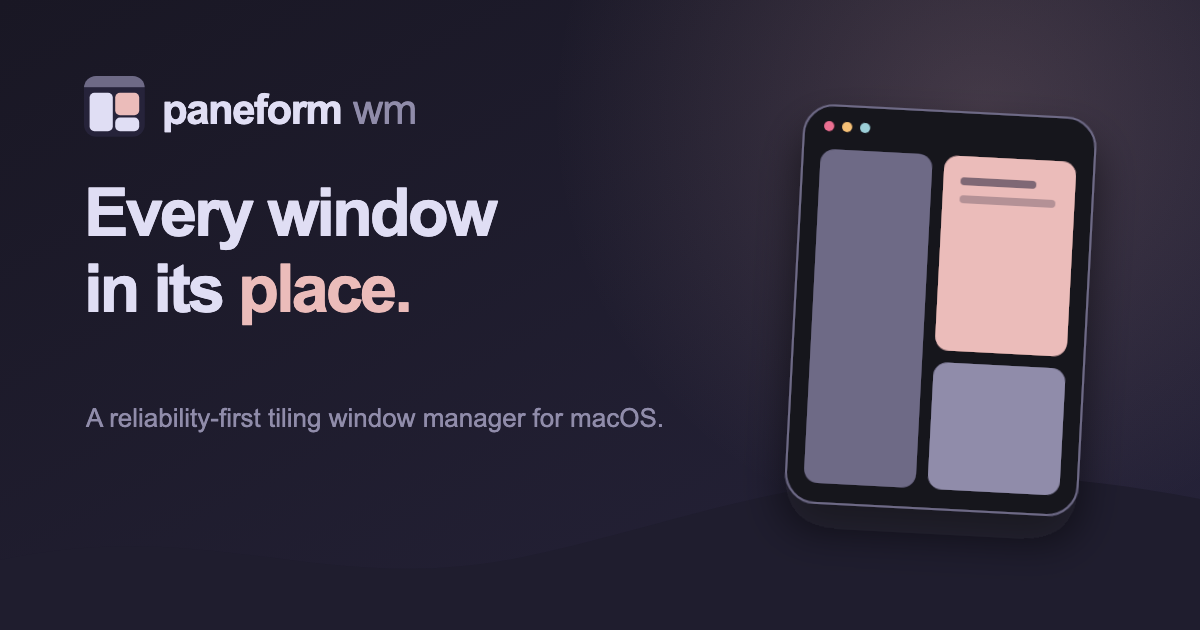
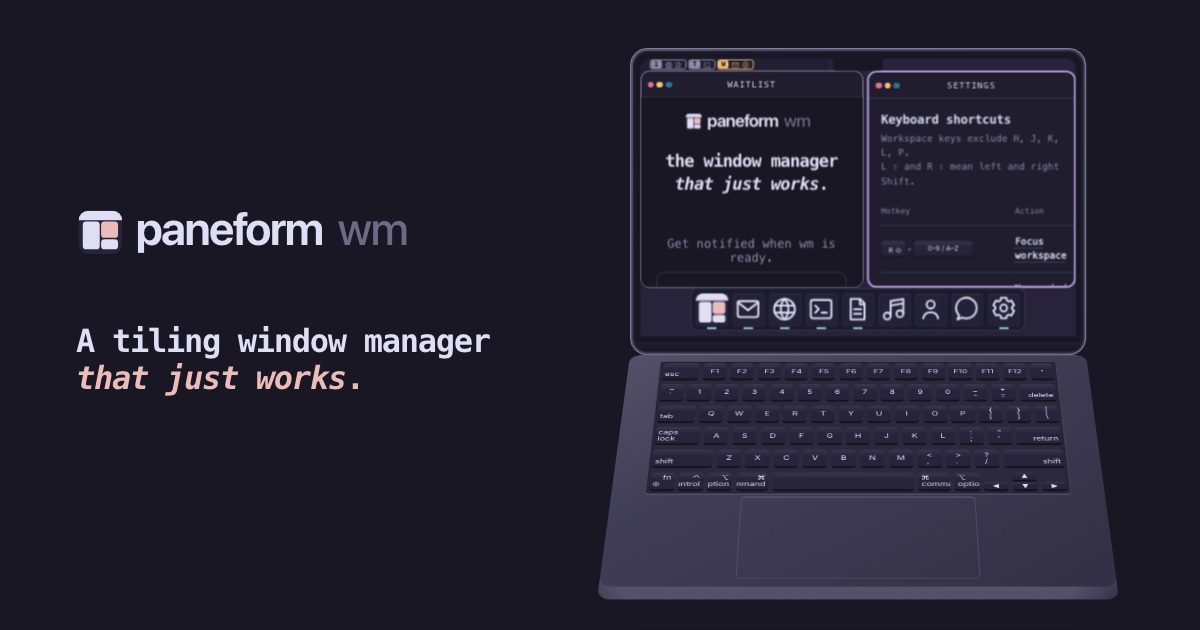
feat(site): render approved social card from the landing UI

diff --git a/apps/site/scripts/render-wm-corners.ts b/apps/site/scripts/render-wm-corners.ts
@@ -10,6 +10,8 @@ const url = process.env.WM_SCREENSHOT_URL ?? "http://127.0.0.1:4192/wm/";
 const outputDir = resolve(process.env.WM_SCREENSHOT_DIR ?? "/tmp/wm-corners");
 const chromePath =
   process.env.CHROME_PATH ?? "/Applications/Google Chrome.app/Contents/MacOS/Google Chrome";
+const socialMode = process.argv.includes("--social");
+const socialOutput = resolve("static/social/paneform-wm.png");
 
 type Target = { type: string; webSocketDebuggerUrl?: string };
 type CdpMessage = { id?: number; result?: unknown; error?: { message?: string } };
@@ -100,6 +102,7 @@ async function findTarget(endpoint: string): Promise<Target & { webSocketDebugge
 async function evaluate<T>(client: CdpClient, expression: string): Promise<T> {
   const response = await client.command<{ result?: { value?: T } }>("Runtime.evaluate", {
     expression,
+    awaitPromise: true,
     returnByValue: true,
   });
   if (!response.result || !("value" in response.result))
@@ -164,6 +167,46 @@ async function renderViewport(client: CdpClient, label: string, viewport: Viewpo
   await screenshot(client, resolve(outputDir, `${label}-right.png`), cornerClip("right", geometry));
 }
 
+async function renderSocial(client: CdpClient): Promise<void> {
+  await client.command("Emulation.setDeviceMetricsOverride", {
+    width: 1200,
+    height: 630,
+    deviceScaleFactor: 1,
+    mobile: false,
+  });
+  await client.command("Emulation.setEmulatedMedia", {
+    media: "screen",
+    features: [
+      { name: "prefers-color-scheme", value: "dark" },
+      { name: "prefers-reduced-motion", value: "reduce" },
+    ],
+  });
+  await client.command("Page.navigate", { url: new URL("og/", url).href });
+  await evaluate(
+    client,
+    `(async () => {
+      for (let attempt = 0; attempt < 240; attempt += 1) {
+        const complete = [...document.querySelectorAll('[role="status"]')]
+          .some((element) => element.textContent?.includes('Demo complete'));
+        const frames = [...document.querySelectorAll('iframe')];
+        const framesReady = frames.every((frame) => {
+          try { return frame.contentDocument?.readyState === 'complete'; }
+          catch { return false; }
+        });
+        if (complete && framesReady && !document.querySelector('.paneform-splash')) {
+          await document.fonts.ready;
+          await Promise.all(frames.map((frame) => frame.contentDocument?.fonts.ready));
+          await new Promise((resolve) => requestAnimationFrame(() => requestAnimationFrame(resolve)));
+          return true;
+        }
+        await new Promise((resolve) => setTimeout(resolve, 50));
+      }
+      throw new Error('Timed out waiting for the completed OG scene');
+    })()`,
+  );
+  await screenshot(client, socialOutput);
+}
+
 async function render(): Promise<void> {
   await mkdir(outputDir, { recursive: true });
   const port = await freePort();
@@ -186,9 +229,14 @@ async function render(): Promise<void> {
   const client = new CdpClient(target.webSocketDebuggerUrl);
   try {
     await client.command("Page.enable");
-    await renderViewport(client, "desktop", { width: 1920, height: 1080 });
-    await renderViewport(client, "mobile", { width: 390, height: 844 });
-    process.stdout.write(`Wrote WM corner renders to ${outputDir}\n`);
+    if (socialMode) {
+      await renderSocial(client);
+      process.stdout.write(`Wrote social image to ${socialOutput}\n`);
+    } else {
+      await renderViewport(client, "desktop", { width: 1920, height: 1080 });
+      await renderViewport(client, "mobile", { width: 390, height: 844 });
+      process.stdout.write(`Wrote WM corner renders to ${outputDir}\n`);
+    }
   } finally {
     client.close();
     chrome.kill("SIGTERM");

diff --git a/apps/site/src/routes/wm/og/+page.svelte b/apps/site/src/routes/wm/og/+page.svelte
@@ -1,0 +1,111 @@
+<script lang="ts">
+  import PaneformWordmark from "$lib/hero/PaneformWordmark.svelte";
+  import WmHero from "$lib/hero/WmHero.svelte";
+</script>
+
+<main class="og-page">
+  <section class="og-copy" aria-labelledby="og-heading">
+    <div class="og-wordmark"><PaneformWordmark clipId="paneform-og-clip" /></div>
+    <h1 id="og-heading">
+      <span>A tiling window manager</span>
+      <span class="tagline"><em>that just works</em>.</span>
+    </h1>
+  </section>
+  <section class="og-product" aria-label="Paneform WM running on a MacBook">
+    <WmHero />
+  </section>
+</main>
+
+<svelte:head>
+  <title>Paneform WM social image</title>
+  <meta name="robots" content="noindex, nofollow" />
+  <meta name="theme-color" content="#191724" />
+</svelte:head>
+
+<style>
+  :global(html:has(.og-page)),
+  :global(body:has(.og-page)) {
+    width: 1200px;
+    height: 630px;
+    overflow: hidden;
+  }
+
+  .og-page {
+    display: grid;
+    grid-template-columns: 43% 57%;
+    width: 1200px;
+    height: 630px;
+    overflow: hidden;
+    background: var(--color-page-background);
+    color: var(--color-page-foreground);
+  }
+
+  .og-copy {
+    z-index: 2;
+    display: flex;
+    flex-direction: column;
+    justify-content: center;
+    padding: 0 0 1.5rem 4.75rem;
+  }
+
+  .og-wordmark {
+    width: 21.875rem;
+    margin-block-end: 4.125rem;
+  }
+
+  h1 {
+    display: flex;
+    flex-direction: column;
+    margin: 0;
+    font-size: 2rem;
+    font-weight: var(--type-weight-medium);
+    line-height: 1.17;
+    letter-spacing: -0.04em;
+  }
+
+  h1 span {
+    white-space: nowrap;
+  }
+
+  .tagline {
+    color: var(--rp-rose);
+    font-weight: var(--type-weight-strong);
+  }
+
+  .og-product {
+    position: relative;
+    min-width: 0;
+    overflow: hidden;
+  }
+
+  .og-product :global(.wm-landing) {
+    display: block;
+    width: 100%;
+    height: 630px;
+  }
+
+  .og-product :global(.hero) {
+    display: block;
+    height: 630px;
+  }
+
+  .og-product :global(.hero-header),
+  .og-product :global(.stage-controls),
+  .og-product :global(.demo-control) {
+    display: none;
+  }
+
+  .og-product :global(.stage-shell),
+  .og-product :global(.stage) {
+    width: 100%;
+    height: 630px;
+    padding: 0;
+  }
+
+  .og-product :global(.stage .scene) {
+    width: 39rem;
+    max-width: none;
+    --laptop-solo-width: 78%;
+    --laptop-solo-top: 40%;
+  }
+</style>

diff --git a/apps/site/scripts/check-release.ts b/apps/site/scripts/check-release.ts
@@ -7,7 +7,7 @@ import { resolve } from "node:path";
 const host = "127.0.0.1";
 const outputDir = resolve(".vercel/output");
 const staticDir = resolve(outputDir, "static");
-const imageUrl = "https://paneform.com/social/paneform-wm.png";
+const imageUrl = "https://paneform.com/social/paneform-wm.png?v=2";
 const pageMetadata = [
   {
     path: "/wm/",
@@ -88,6 +88,7 @@ async function assertArtifacts(): Promise<void> {
     assertFile(resolve(staticDir, "social/paneform-wm.png")),
   ]);
   await assert.rejects(stat(resolve(staticDir, "wm/play")), { code: "ENOENT" });
+  await assert.rejects(stat(resolve(staticDir, "wm/og")), { code: "ENOENT" });
 
   const png = await readFile(resolve(staticDir, "social/paneform-wm.png"));
   assert.ok(
@@ -136,6 +137,15 @@ async function assertStatus(origin: string, path: string, status: number): Promi
 }
 
 async function assertPublicRoutes(origin: string): Promise<void> {
+  // The image source is development-only, even in an opted-in playground preview.
+  for (const path of [
+    "/wm/og",
+    "/wm/og/",
+    "/wm/og/__data.json?x-sveltekit-invalidated=000",
+    "/wm/%6fg/",
+  ]) {
+    await assertStatus(origin, path, 404);
+  }
   const root = await assertStatus(origin, "/", 200);
   assertRedirectDocument(await root.text());
   for (const metadata of pageMetadata) {

diff --git a/apps/site/src/hooks.server.ts b/apps/site/src/hooks.server.ts
@@ -1,10 +1,13 @@
 import { env } from "$env/dynamic/private";
+import { dev } from "$app/environment";
 import { isPlaygroundPath, requirePlayground } from "$lib/server/playground.js";
-import type { Handle } from "@sveltejs/kit";
+import { error, type Handle } from "@sveltejs/kit";
 
 export const handle: Handle = async ({ event, resolve }) => {
   // Data requests can skip layout loads, so enforce the boundary before routing.
-  const playground = isPlaygroundPath(event.route.id ?? event.url.pathname);
+  const path = event.route.id ?? event.url.pathname;
+  if (!dev && (path === "/wm/og" || path.startsWith("/wm/og/"))) error(404, "Not found");
+  const playground = isPlaygroundPath(path);
   if (!playground) return resolve(event);
   requirePlayground(env);
   const resolved = await resolve(event);

diff --git a/apps/site/src/lib/hero/SocialMetadata.svelte b/apps/site/src/lib/hero/SocialMetadata.svelte
@@ -5,8 +5,8 @@
     canonical,
   }: { title: string; description: string; canonical: string } = $props();
 
-  const image = "https://paneform.com/social/paneform-wm.png";
-  const imageAlt = "Paneform WM, every window in its place, illustrated with three tiled window panes.";
+  const image = "https://paneform.com/social/paneform-wm.png?v=2";
+  const imageAlt = "Paneform WM: A tiling window manager that just works, shown beside the app running on a MacBook.";
 </script>
 
 <svelte:head>

diff --git a/apps/site/test/social-metadata.spec.ts b/apps/site/test/social-metadata.spec.ts
@@ -25,7 +25,7 @@ describe("social metadata", () => {
     ]) {
       expect(component).toContain(`"${field}"`);
     }
-    expect(component).toContain("https://paneform.com/social/paneform-wm.png");
+    expect(component).toContain("https://paneform.com/social/paneform-wm.png?v=2");
     expect(component).toContain("summary_large_image");
   });
 

diff --git a/apps/site/src/routes/wm/og/+page.server.ts b/apps/site/src/routes/wm/og/+page.server.ts
@@ -1,0 +1,9 @@
+import { dev } from "$app/environment";
+import { error } from "@sveltejs/kit";
+
+export const prerender = false;
+export const trailingSlash = "ignore";
+
+export function load() {
+  if (!dev) error(404, "Not found");
+}

diff --git a/apps/site/README.md b/apps/site/README.md
@@ -49,6 +49,14 @@ the Vercel adapter emits the actual HTTP 308 redirect.
 ## Sharing
 
 The landing and waitlist share `/social/paneform-wm.png`, a 1200x630 image with
-Open Graph and Twitter large-card metadata. Its editable SVG source is alongside
-the PNG; regenerate the PNG when changing the artwork. These assets and
-`/favicon.svg` remain public regardless of the playground flag.
+Open Graph and Twitter large-card metadata. With a local landing server running,
+regenerate it from the development-only `/wm/og/` route with
+`pnpm --filter @paneform/site render:og`.
+Set `WM_SCREENSHOT_URL` when the landing is not at `http://127.0.0.1:4192/wm/`.
+The renderer uses dark mode and reduced motion, waits for the actual demo to finish
+and the waitlist iframe/fonts to load, then captures the page without changing its
+window contents. `/wm/og/` is unavailable in all built deployments, including
+playground-enabled previews. It is only available through the development server.
+The image and `/favicon.svg` remain public regardless of the playground flag.
+Social metadata uses an image URL version (`?v=2`) so fresh scrapes can distinguish
+the approved dark screenshot from the previous artwork.
